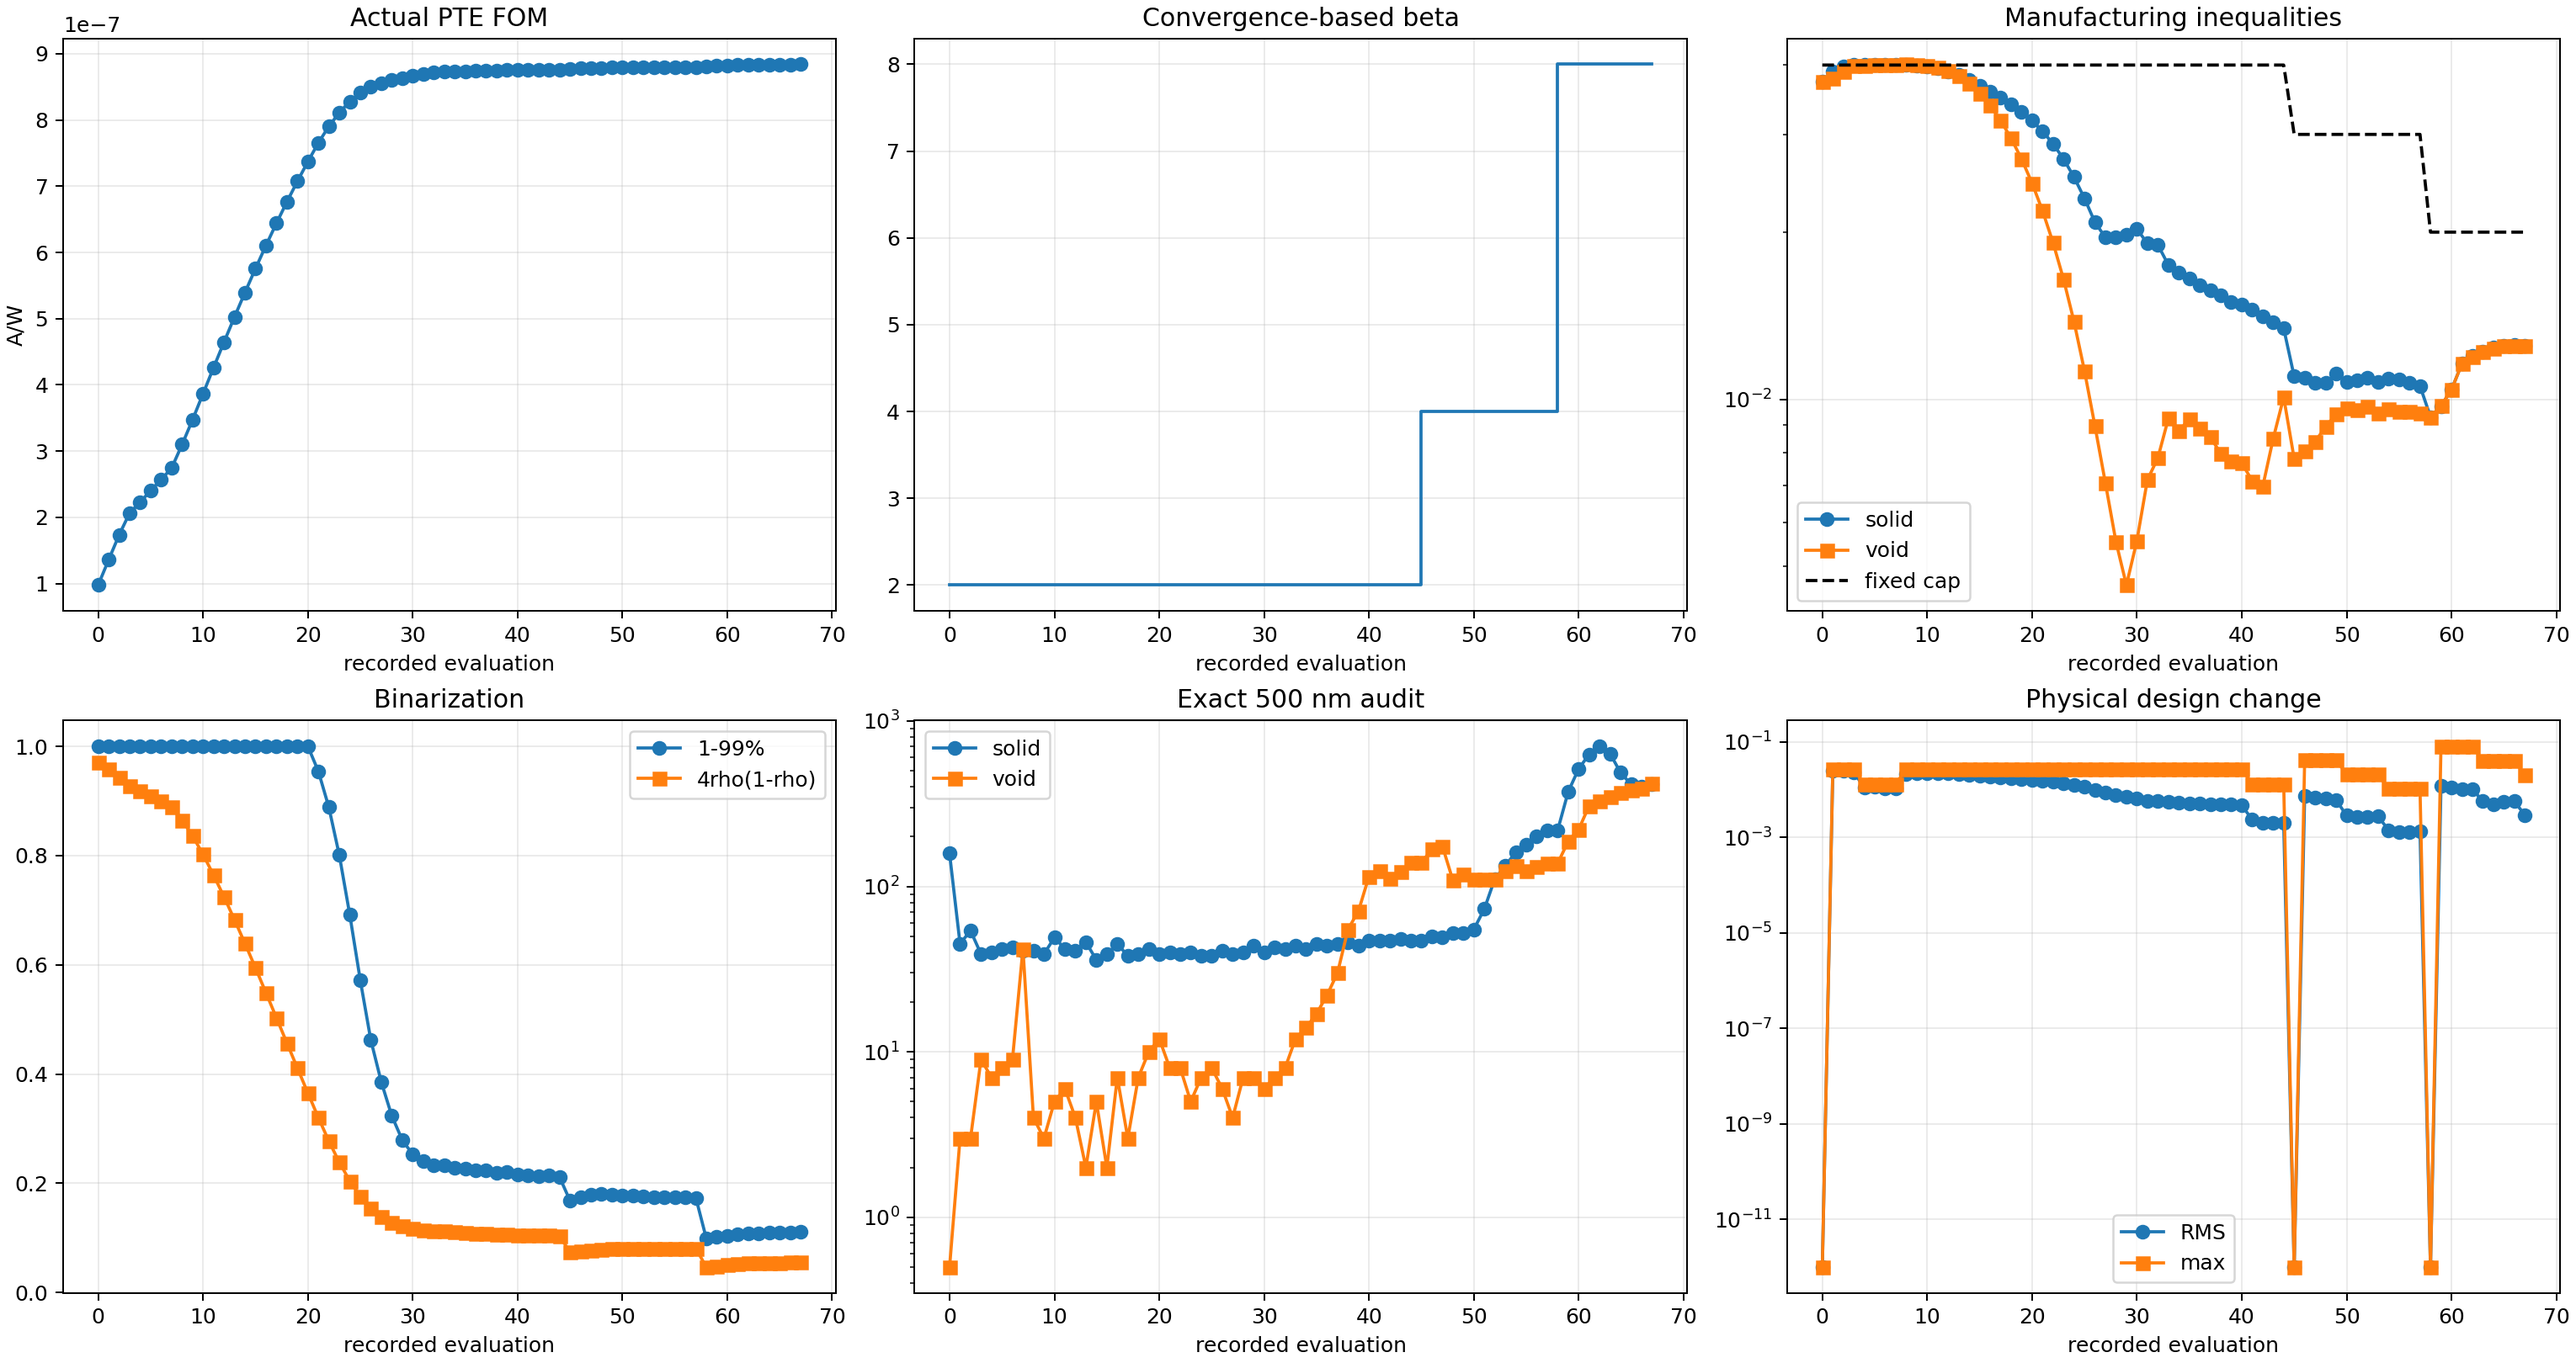
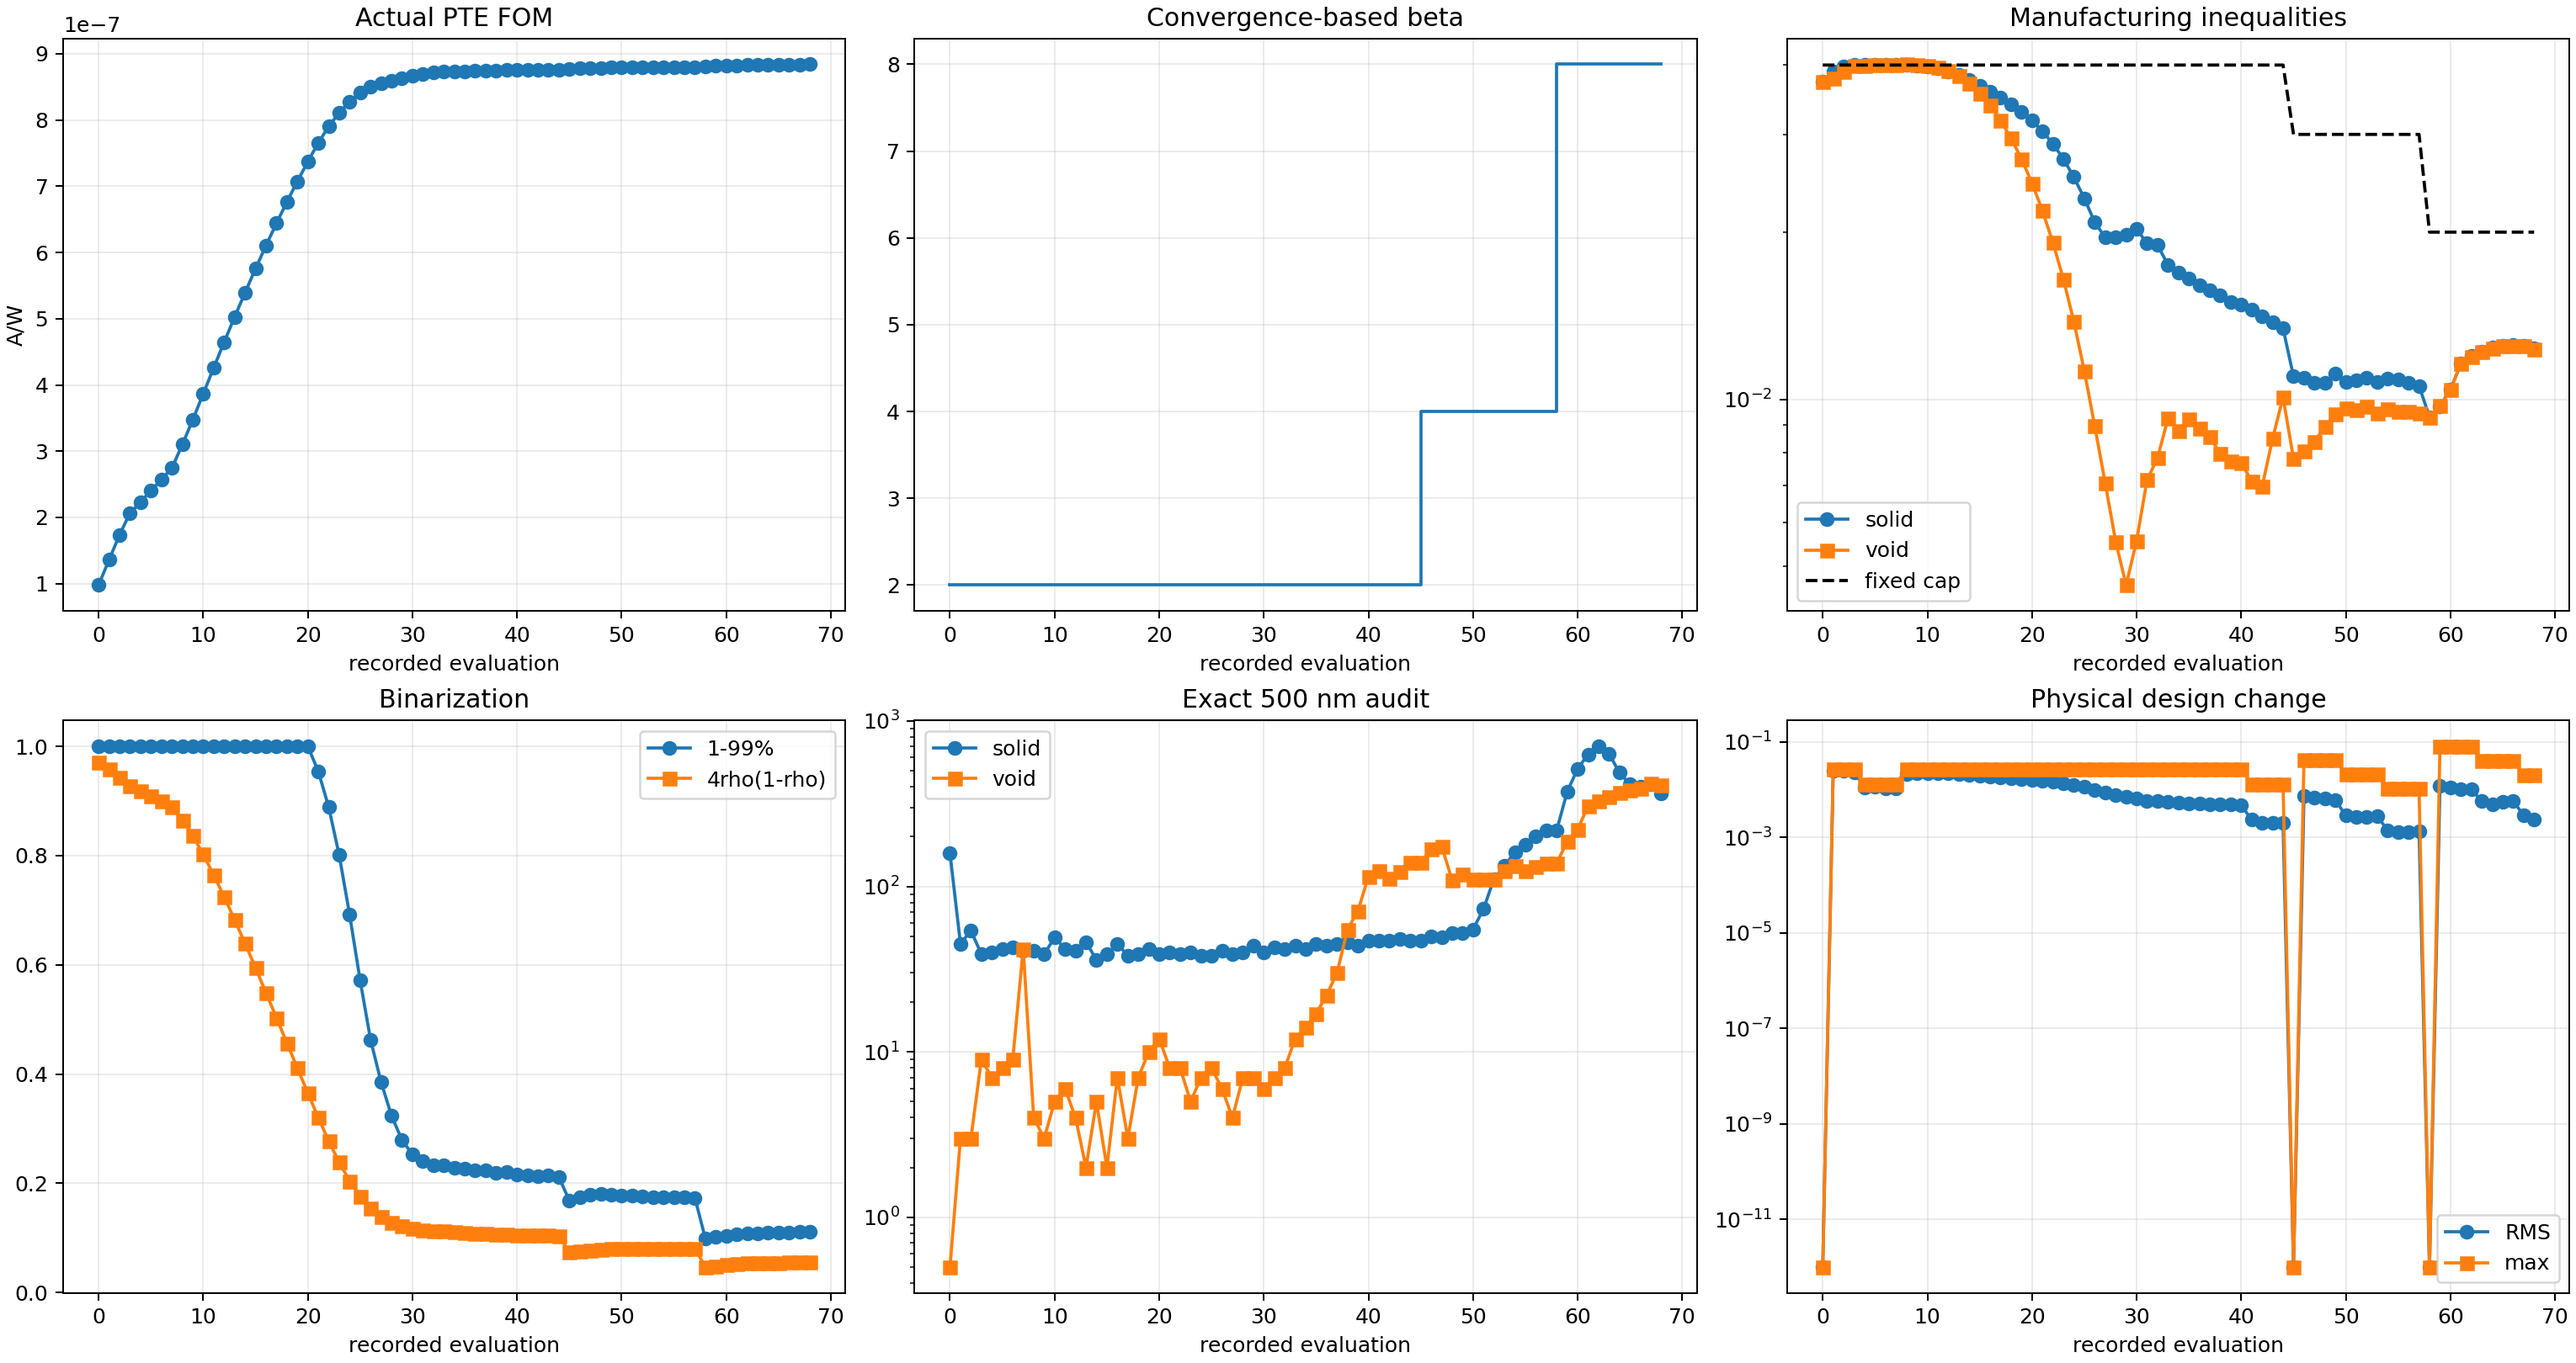
Record Run 003 run003_b008_s010_g066_accepted_mma

diff --git a/photothermal_pte/optimization_runs/run_003_gaussian10_w8p5_current_max_converged/results/OPTIMIZATION_REPORT.md b/photothermal_pte/optimization_runs/run_003_gaussian10_w8p5_current_max_converged/results/OPTIMIZATION_REPORT.md
@@ -2,10 +2,10 @@
 
 Status: `RUNNING_CONVERGENCE_BASED_CONSTRAINED_BETA_CONTINUATION`
 
-Current stage: beta=8, accepted stage iteration=9, global iteration=65.
+Current stage: beta=8, accepted stage iteration=10, global iteration=66.
 
-Actual FOM: `8.840073767922e-07 A/W`. Fixed-cap solid/void constraints: `1.248044e-02` / `1.246659e-02` with cap `2.000000e-02`.
+Actual FOM: `8.840986760101e-07 A/W`. Fixed-cap solid/void constraints: `1.233739e-02` / `1.232225e-02` with cap `2.000000e-02`.
 
-Exact 500 nm bad cells: solid `416`, void `419`. Stage convergence: `False` (recent FOM/density changes have not plateaued).
+Exact 500 nm bad cells: solid `365`, void `412`. Stage convergence: `False` (recent FOM/density changes have not plateaued).
 
 Beta is promoted only after fixed-inequality feasibility and a four-update FOM/design plateau; it is never promoted after one nominal update.
